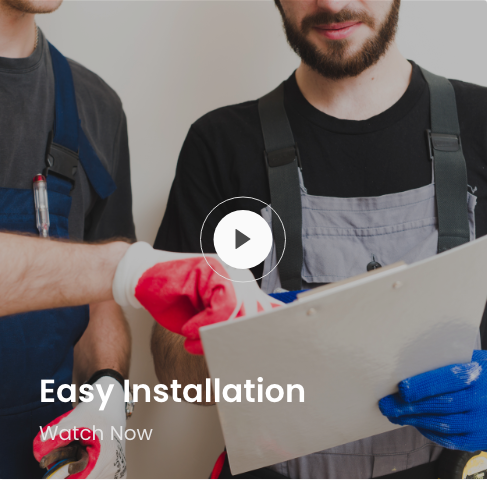
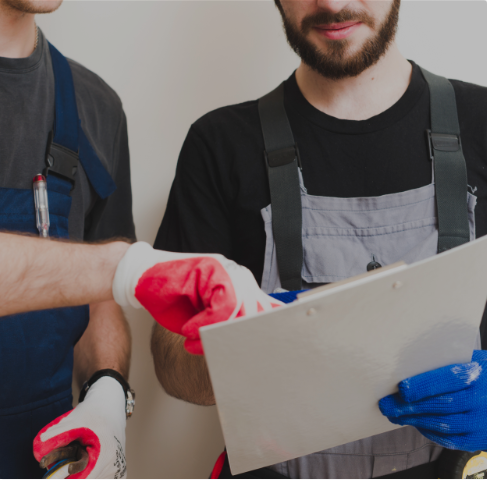
s

Changed region(s): [[0.0616, 0.7812, 0.6468, 0.9375], [0.4004, 0.4062, 0.5852, 0.5938]]

diff --git a/index.html b/index.html
@@ -12,11 +12,140 @@
       integrity="sha384-KyZXEAg3QhqLMpG8r+8fhAXLRk2vvoC2f3B09zVXn8CA5QIVfZOJ3BCsw2P0p/We"
       crossorigin="anonymous"
     />
-
-    <title>Hello, world!</title>
+    <link rel="stylesheet" href="/css/style.css" />
+    <title>Olarm</title>
   </head>
   <body>
-    <h1>Hello, world!</h1>
+    <header class="header">
+      <nav class="navbar navbar-expand-lg navbar-light bg-light">
+        <div class="container">
+          <a class="navbar-brand" href="#">
+            <img src="/img/olarm_logo.png" class="header__logo" alt="logo" />
+          </a>
+          <button
+            class="navbar-toggler"
+            type="button"
+            data-bs-toggle="collapse"
+            data-bs-target="#navbarSupportedContent"
+            aria-controls="navbarSupportedContent"
+            aria-expanded="false"
+            aria-label="Toggle navigation"
+          >
+            <span class="navbar-toggler-icon"></span>
+          </button>
+          <div class="collapse navbar-collapse" id="navbarSupportedContent">
+            <ul class="navbar-nav me-auto mb-2 mb-lg-0">
+              <li class="nav-item">
+                <a class="nav-link active" aria-current="page" href="#">HOME</a>
+              </li>
+              <li class="nav-item">
+                <a class="nav-link" href="#">FEATURES</a>
+              </li>
+              <li class="nav-item">
+                <a class="nav-link" href="#">PLANS</a>
+              </li>
+              <li class="nav-item">
+                <a class="nav-link" href="#">MEET OLARM</a>
+              </li>
+            </ul>
+            <div class="d-flex">
+              <span class="header__signup">Sign Up</span>
+              <span class="header__signin">Sign In</span>
+            </div>
+          </div>
+        </div>
+      </nav>
+      <div class="container">
+        <div class="row">
+          <div class="col-sm-6 hero-text">
+            <h1 class="hero-text__heading">
+              World's <span class="hero-text--red">Smartest</span>
+              <span class="nextline">Home Security</span>
+            </h1>
+            <h2 class="hero-text__subheading">
+              Unique security experiences with more than 300,000 clients, Simple
+              Installation, Convenience & Free Monitoring
+            </h2>
+            <button type="button" class="btn hero-text__btn">Visit Shop</button>
+          </div>
+        </div>
+      </div>
+    </header>
+    <main>
+      <div class="container">
+        <div class="row">
+          <div class="col-sm-6 main__heading">
+            <p>Tailored Total Home Protection</p>
+          </div>
+        </div>
+        <div class="row">
+          <div class="col-sm-6 main__heading">
+            <h1>Next Generation Home Alarm System</h1>
+          </div>
+        </div>
+        <div class="row">
+          <div class="col-sm-8">
+            <div class="video__card--one">
+              <div class="video__card-text">
+                <h4>Auto Arming | Dis-arming</h4>
+                <p>Watch Now</p>
+              </div>
+            </div>
+          </div>
+          <div class="col-sm-4">
+            <div class="video__card--two">
+              <div class="video__card-text">
+                <h4>Easy Installation</h4>
+                <p>Watch Now</p>
+              </div>
+            </div>
+          </div>
+          <div class="col-sm-4">
+            <div class="video__card--three">
+              <div class="video__card-text">
+                <h4>24-7 Monitoring</h4>
+                <p>Watch Now</p>
+              </div>
+              <h5></h5>
+            </div>
+          </div>
+          <div class="col-sm-8">
+            <div class="video__card--four">
+              <div class="video__card-text">
+                <h4>Our Sensor Learns Your Lifestyle</h4>
+                <p>Watch Now</p>
+              </div>
+            </div>
+          </div>
+        </div>
+      </div>
+      <div class="container-fluid alarm__section">
+        <div class="alarm__section--hero">
+          <div class="alarm__section--text">
+            <p>Olarm Hub + Sensors + O’Clicker</p>
+            <h1>Meet Olarm Kit</h1>
+          </div>
+          <div class="container">
+            <div class="row justify-content-center alarm__card">
+              <div class="col-4">
+                <div class="card" style="width: 18rem">
+                  <div class="card-body">
+                    <h5 class="card-title">Smart sensor</h5>
+                    <p class="card-text">
+                      This is your first all-in-one sensor on the market.
+                      Motion, Water Leak, Smoke Alarm, Temperature and Humidity
+                      are some of the features that can be controlled through
+                      this Smart Sensor.
+                    </p>
+                  </div>
+                </div>
+              </div>
+            </div>
+          </div>
+        </div>
+      </div>
+    </main>
+    <footer></footer>
 
     <!-- Optional JavaScript; choose one of the two! -->
 

diff --git a/css/style.css b/css/style.css
@@ -1,15 +1,93 @@
 /* remember variables is always the 1st stylesheet you import
    order of the imports matter
 */
-.auto-aiming {
-  background-image: url("/img/Rectangle.png");
-  background-position: center;
-  background-repeat: no-repeat;
+.header {
+  background-image: url("/img/Header.jpg");
+  height: 700px;
   background-size: cover;
-  height: 300px;
+  background-repeat: no-repeat;
+  width: 100%;
 }
 
-.easy-installation {
+.bg-light {
+  background-color: transparent !important;
+}
+
+.navbar-light .navbar-nav .nav-link {
+  color: white;
+}
+
+.hero-text {
+  color: white;
+}
+
+.hero-text__heading {
+  font-size: 4rem;
+  margin: 70px 0;
+}
+
+.hero-text__subheading {
+  font-size: 1.3rem;
+  margin: 20px 0;
+}
+
+.hero-text--red {
+  color: red;
+}
+
+.video__card--one {
+  background-image: url("/img/Rectangle.png");
+}
+
+.video__card--two {
   background-image: url("/img/Group 1452.png");
+}
+
+.video__card--three {
+  background-image: url("/img/Rectangle1.png");
+}
+
+.video__card--four {
+  background-image: url("/img/Rectangle2.png");
+  margin-bottom: 200px;
+}
+
+.video__card--one,
+.video__card--two,
+.video__card--three,
+.video__card--four {
+  background-position: center;
+  background-size: cover;
+  background-repeat: no-repeat;
+  height: 400px;
+  margin-top: 1.4rem;
+  position: relative;
+}
+
+.video__card-text {
+  color: white;
+  position: absolute;
+  bottom: 0;
+  padding-left: 30px;
+}
+
+.alarm__section {
+  padding: 0;
+}
+
+.alarm__section--hero {
+  background-image: url("/img/alarmbackground.png");
+  background-position: center;
+  background-size: cover;
+  background-repeat: no-repeat;
+  height: 100vh;
+}
+
+.alarm__section--text {
+  text-align: center;
+}
+
+.alarm__section--text {
+  padding-top: 60px;
 }
 /*# sourceMappingURL=style.css.map */

diff --git a/scss/partials/_video.scss b/scss/partials/_video.scss
@@ -1,0 +1,35 @@
+.video__card--one {
+  background-image: url("/img/Rectangle.png");
+}
+
+.video__card--two {
+  background-image: url("/img/Group\ 1452.png");
+}
+
+.video__card--three {
+  background-image: url("/img/Rectangle1.png");
+}
+
+.video__card--four {
+  background-image: url("/img/Rectangle2.png");
+  margin-bottom: 200px;
+}
+
+.video__card--one,
+.video__card--two,
+.video__card--three,
+.video__card--four {
+  background-position: center;
+  background-size: cover;
+  background-repeat: no-repeat;
+  height: 400px;
+  margin-top: 1.4rem;
+  position: relative;
+}
+
+.video__card-text {
+  color: white;
+  position: absolute;
+  bottom: 0;
+  padding-left: 30px;
+}

diff --git a/scss/partials/_header.scss b/scss/partials/_header.scss
@@ -1,7 +1,32 @@
 .header {
   background-image: url("/img/Header.jpg");
-  height: 100vh;
+  height: 700px;
   background-size: cover;
   background-repeat: no-repeat;
   width: 100%;
+}
+
+.bg-light {
+  background-color: transparent !important;
+}
+
+.navbar-light .navbar-nav .nav-link {
+  color: white;
+}
+
+.hero-text {
+  color: white;
+
+  &__heading {
+    font-size: 4rem;
+    margin: 70px 0;
+  }
+  &__subheading {
+    font-size: 1.3rem;
+    margin: 20px 0;
+  }
+
+  &--red {
+    color: red;
+  }
 }

diff --git a/scss/partials/_alarm.scss b/scss/partials/_alarm.scss
@@ -1,0 +1,19 @@
+.alarm__section {
+  padding: 0;
+}
+
+.alarm__section--hero {
+  background-image: url("/img/alarmbackground.png");
+  background-position: center;
+  background-size: cover;
+  background-repeat: no-repeat;
+  height: 100vh;
+}
+
+.alarm__section--text {
+  text-align: center;
+}
+
+.alarm__section--text {
+  padding-top: 60px;
+}

diff --git a/scss/style.scss b/scss/style.scss
@@ -4,3 +4,5 @@
 
 @import "partials/variables";
 @import "partials/header";
+@import "partials/video";
+@import "partials/alarm";
